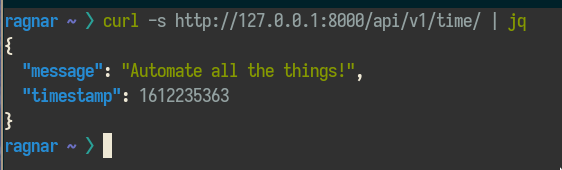
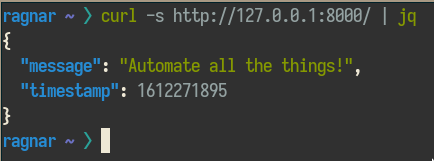
simplify endpoint, update docs

Changed region(s): [[0.0, 0.0, 1.0, 1.0], [0.9885, 0.9627, 1.0, 1.0], [0.8088, 0.4348, 0.8387, 0.4658]]

diff --git a/app/core/config.py b/app/core/config.py
@@ -7,7 +7,7 @@ class Settings(BaseSettings):
     # e.g: '["http://localhost", "http://localhost:8080", "http://local.liatrio.com"]'
     BACKEND_CORS_ORIGINS: List[AnyHttpUrl] = []
     PROJECT_NAME: str = "Time Service"
-    API_V1_STR: str = "/api/v1"
+    API_V1_STR: str = ""  # /api/v1
 
 
 settings = Settings()

diff --git a/app/api/v1/api.py b/app/api/v1/api.py
@@ -2,4 +2,4 @@ from fastapi import APIRouter
 from app.api.v1.endpoints import get_time
 
 api_router = APIRouter()
-api_router.include_router(get_time.router, prefix="/time", tags=["get_time"])
+api_router.include_router(get_time.router, prefix="", tags=["get_time"])

diff --git a/README.md b/README.md
@@ -1,6 +1,6 @@
 # Time Service API
 
-Time Service API is a REST API to fetch the current time since epoch.
+Time Service API is a simple REST API to fetch the current time since epoch.
 
 ## Getting Started
 
@@ -30,7 +30,7 @@ To run the project, run `poetry run uvicorn app.main.app --reload`
 To test the service is working, you can use curl:
 
 ```
-$ curl -s http://127.0.0.1:8000/api/v1/time/ | jq
+$ curl -s http://127.0.0.1:8000/ | jq
 {
   "message": "Automate all the things!",
   "timestamp": 1612235363
